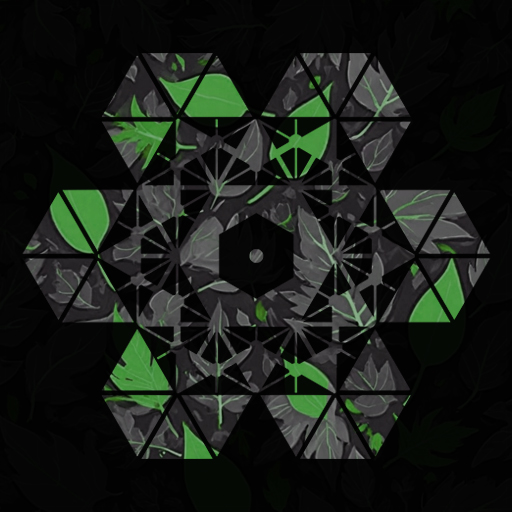
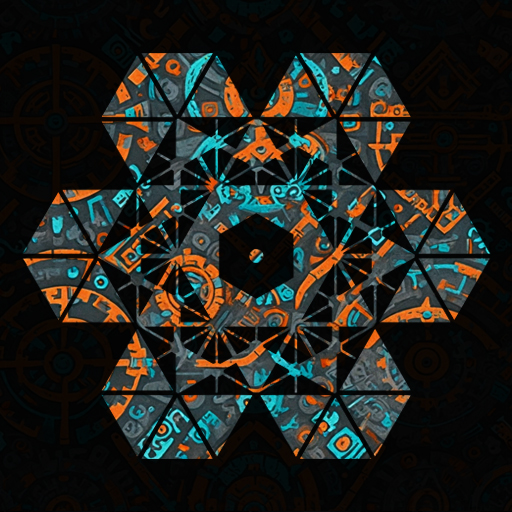
v 0.0.11 - fix cursor sur waveform + rework covers

Changed region(s): [[0.0312, 0.0938, 0.9688, 0.9062], [0.4688, 0.4688, 0.5312, 0.5312]]

diff --git a/css/main.css b/css/main.css
@@ -268,7 +268,23 @@ html, body {
           #waveform {
             overflow: hidden;
             height: 10svh;
-            cursor: pointer;
+
+            /* Tablet */
+            /* @media (min-width: 767px) and (max-width: 1279px) { 
+              
+            } */
+            /* Laptop */
+            @media (min-width: 1280px) and (max-width: 1919px) { 
+              &:hover {
+                cursor: pointer;
+              }
+            }
+            /* Desktop */
+            @media (min-width: 1920px) { 
+              &:hover {
+                cursor: pointer;
+              }
+            }
           }
         }
       }

diff --git a/js/main.js b/js/main.js
@@ -209,7 +209,6 @@ const playCurrentSong = () => {
 
   // Après loading
   wavesurfer.on('ready', function () {
-      //viderLoading();
       let totalTime = Math.round(wavesurfer.getDuration());
       //console.log(totalTime)
       //totalTime = lenghtToString(totalTime);
@@ -561,7 +560,7 @@ let isCurrentlyPlaying = false;
 let wavesurfer = WaveSurfer.create({
   container: '#waveform',
   progressColor: nuwaColor,
-  //barWidth: 1
+  barWidth: 1
 });
 
 let CURRENT_CONTEXT = 'allSongs';

diff --git a/app-properties.js b/app-properties.js
@@ -1,6 +1,6 @@
 export const APP_NAME = 'The H3O+ Project';
-export const APP_VERSION = '0.0.10';
+export const APP_VERSION = '0.0.11';
 export const APP_LOCAL_STORAGE_ID = `h3oplus2024001`;
 
 // CHANGELOG
-// v 0.0.10 - suppression couleurs + rework graphique wavesurfer + drag to seek + favicon et html title par song
+// v 0.0.11 - fix cursor sur waveform + rework covers 

diff --git a/sw.js b/sw.js
@@ -25,4 +25,4 @@ self.addEventListener('fetch', function(e) {
   );
 });
 
-const version = '0.0.10';
+const version = '0.0.11';
